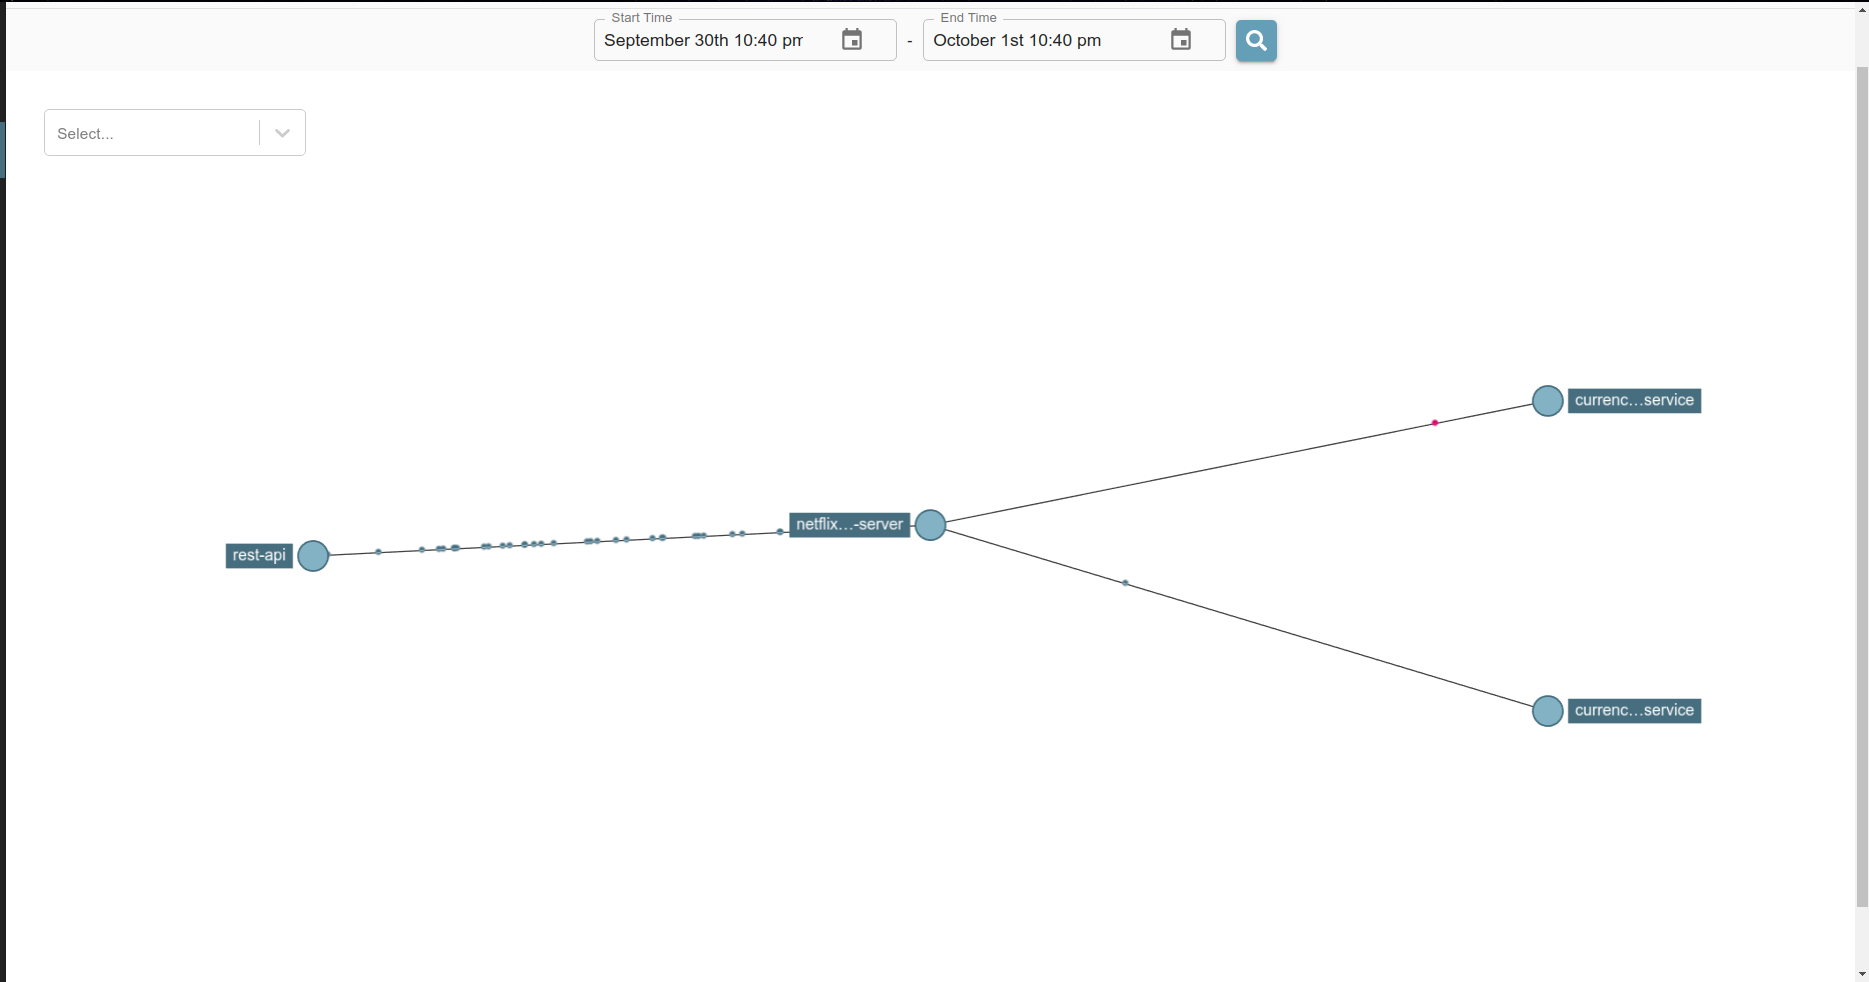
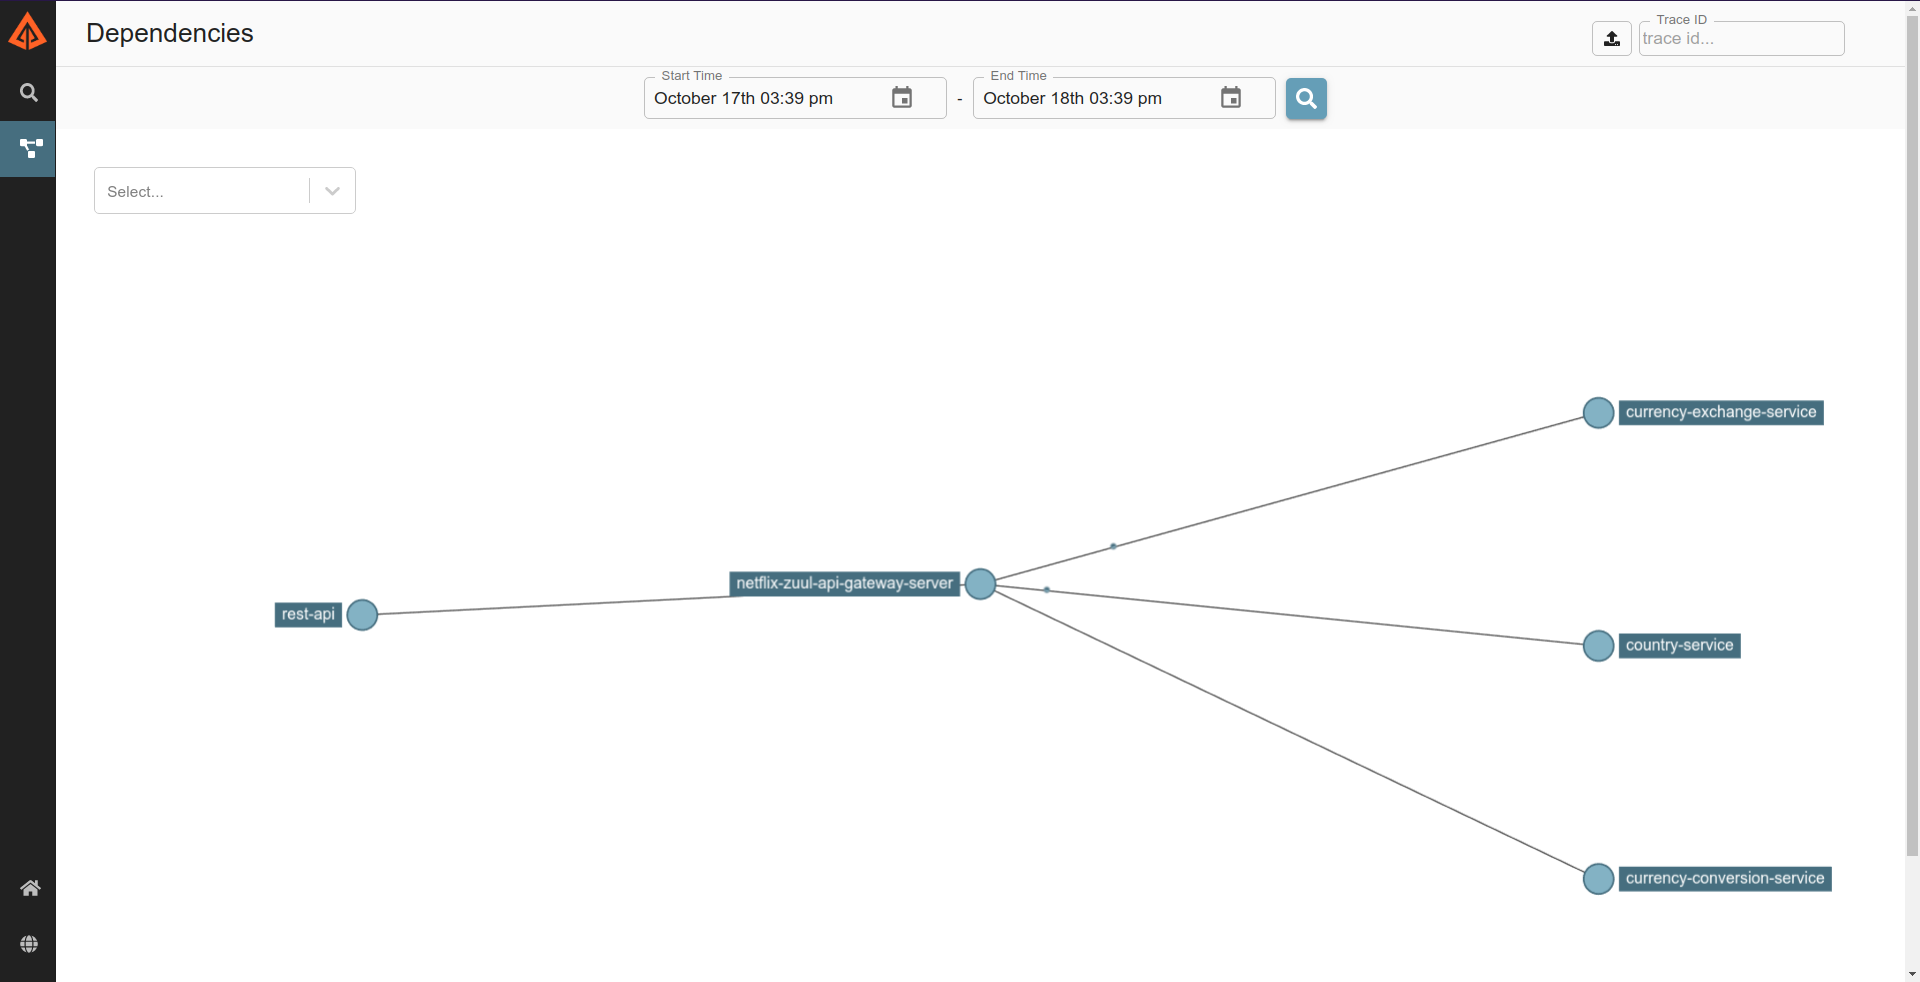
- #156

diff --git a/readme.md b/readme.md
@@ -1,6 +1,6 @@
 Abstract
 ========
-- Cloud Native App represent basic reference for different stacks such as
+- Cloud Native App represent a basic demo for different stacks such as
     - micro-service architecture 
     - gateway server
     - naming server
@@ -9,19 +9,21 @@ Abstract
     - distributed tracing with zipkin
     - containerization
     - swagger implementation
-- My aim is to remain up to date with each stack such as Java 15, Spring Boot 2.3.4 and Spring Cloud HOXTON SR8
+- My aim is to remain up to date with each stack such as Java 15, Spring Boot 2.3.4, Spring Cloud HOXTON SR8 and ELK_VERSION=7.9.2
 
 
 About
 ----
 - Cloud Native App which convert currency from given country code to targeted country code. 
 - Currency Conversion Rest API  is actual responsible to interact with micro-services using ```api-gateway-server```. 
-- An Actor (React Client, Angular Client etc ) can  send a request to rest-api, it interacts with *CURRENCY-EXCHANGE-SERVICE*  micro-service to get exchange rate and then *CURRENCY-CONVERSION-SERVICE* micro-service to convert this currency
+- An Actor (React Client, React Native Client) can  send a request to rest-api, it interacts with *CURRENCY-EXCHANGE-SERVICE*  micro-service to get exchange rate and then *CURRENCY-CONVERSION-SERVICE* micro-service to convert this currency
 - ![Micro Service Architecture](resource/micro-service-architecture.png)
 - In above diagram [You Can Access it here: Pre-Req: Run the App First](http://localhost:9411/zipkin/), We have 
-    - Two micro-services in which ```currency-exchange-service```  and ```currency-conversion-service``` helps us to convert currency from one country code to another country code.
-    - One api-gateway-server
-    - One rest-api which expose their URLs to Clients
+    - Five micro-services in which
+        - Two micro-services ```currency-exchange-service```  and ```currency-conversion-service``` helps us to convert currency from one country code to another country code.
+        - An api-gateway-server (which is responsible to redirect requests to micro-services)
+        - A Country Micro-Service which returns all Country with their respect Code
+        - A rest-api which expose their URLs to Clients (and is interact with API gateway server)
 
 Requirements
 -----------
@@ -42,7 +44,7 @@ How to Run
 
 How it works
 ------------
-- Simply go to Swagger UI and interact with different end points.
+- Simply go to [Swagger UI](http://localhost:5200/swagger-ui/index.html#/exchange-controller) and interact with different end points.
 
 Swagger UI
 ----------
@@ -51,10 +53,13 @@ Swagger UI
 Kibana Dashboard (For Centralized Logging)
 ------------------------------------------
 - [Go here to view centralized logs](http://localhost:5601/app/discover#)
-- username : elastic
-- password : changeme
+- credentials (It will ask you credentials first)
+    - username : `elastic`
+    - password : `changeme`
+- First you have to create index `logstash-*` like below graphic.
+![Create Index](resource/create-index.PNG)
 - Select logstash-* index pattern like below graphic and then you will see the logs
-- ![Kibana Dashboard](resource/kibana-dashboard.png)
+![Kibana Dashboard](resource/kibana-dashboard.png)
 
 Naming Server
 -------------
@@ -66,18 +71,18 @@ Zipkin Server
 
 REST API
 --------
--   [Currency Conversion API](http://localhost:5200/actuator/health)
+-   [REST API](http://localhost:5200/actuator/health)
 
 Micro-Services
 --------------
--   [CURRENCY-EXCHANGE-SERVICE](http://localhost:8000/actuator/health)
--   [CURRENCY-CONVERSION-SERVICE](http://localhost:8100/actuator/health)
+-   [CURRENCY EXCHANGE SERVICE](http://localhost:8000/actuator/health)
+-   [CURRENCY CONVERSION SERVICE](http://localhost:8100/actuator/health)
 
 Servers
 -------
--   [NETFLIX-ZUUL-API-GATEWAY-SERVER](http://localhost:8755/actuator/health)
--   [NETFLIX-EUREKA-NAMING-SERVER](http://localhost:8761/)
--   [CONFIG-SERVER](http://localhost:8888/actuator/health)
+-   [NETFLIX ZUUL API GATEWAY SERVER](http://localhost:8755/actuator/health)
+-   [NETFLIX EUREKA NAMING SERVER](http://localhost:8761/)
+-   [CONFIG SERVER](http://localhost:8888/actuator/health)
 -   [ZIPKIN SERVER](http://localhost:9411/zipkin/)
 -   [RABBIT MQ SERVER *Username & Password: guest*](http://localhost:15672/)
 

diff --git a/moreinfo.md b/moreinfo.md
@@ -27,10 +27,33 @@ Advantages of Microservices Architecture
 - Dynamic Scaling
 - Faster Release Cycle
 
-
 Distributed Tracing
 -------------------
+- ### Updated
+    - Add `spring-cloud-starter-zipkin` dependency
+    - Add following in application.properties
+        - `spring.rabbitmq.addresses=amqp://localhost:5672/`
+        - `spring.zipkin.base-url=http://localhost:9411/`
+    - Run Zipkin and Rabbit MQ Services
+    - Access [Zipkin Dashboard](http://localhost:9411/zipkin/) to see traces of micro-services
+    
+Spring Cloud Config
+-------------------
+- We need `spring-cloud-starter-config` dependency and ` management.endpoints.web.exposure.include=\*` to expose some end points
+-  When our micro service is running, and we don't want to stop them
+    to change the config
+-  Use Post method http://${host}:${port}/actuator/refresh to refresh the configuration
+-  It will update the config for specific port number
 
+To Update All Instances in on Post Request
+-----------------------------------------
+
+-  Add dependency: spring-cloud-starter-bus-amqp in your service
+-  Post `http://${host}:${port}/actuator/bus-refresh` to refresh all the
+    instances.
+
+Request Identification
+----------------------
 To Identify a request in the service we need:
 
 -  spring-cloud-starter-sleuth
@@ -44,46 +67,9 @@ To Identify a request in the service we need:
       This response will have unique identity
     ```
 
-Zipkin Centralized Dashboard
-----------------------------
 
--  Install rabbit
--  Go to Zipkin quick start and download zipkin using Java
--  run SET RABBIT\_URI=amqp://localhost in environments
--  now run the Zipkin jar, now this jar will be connected to rabbit mq
-
-Getting trace to rabbit mq
---------------------------
-
-Here, we set our services to set their traces to rabbit mq and this
-queue is taking by Zipkin server
-
-Add two dependencies to each service
-
--  spring-cloud-sleuth-zipkin (to interact with zipkin)
--  spring-cloud-starter-bus-amqp (to broadcast message)
-
-Spring Cloud Config
--------------------
-
--  When our config service is running, and we don't want to stop them
-    to change the config
--  Use Post method http://localhost:8080/actuator/refresh while you
-    have added management.endpoints.web.exposure.include=\*
--  To refresh the configuration. (commit must be done)
--  It will update the config for specific port number
-
-here comes spring cloud bus
----------------------------
-
--  add dependency: spring-cloud-starter-bus-amqp in rest-api
--  management.endpoints.web.exposure.include=\* add in prop
--  post http://localhost:8080/actuator/bus-refresh to refresh all the
-    instances (without any commit)
-
-Most Important Note About Networking
-------------------------------------
-
+Numeric IPs
+-----------
 -  eureka.instance.prefer-ip-address=true
 -  eureka.instance.instance-id=\${spring.cloud.client.ip-address}:\${server.port}
 -  eureka.instance.hostname=\${spring.cloud.client.ip-address}
